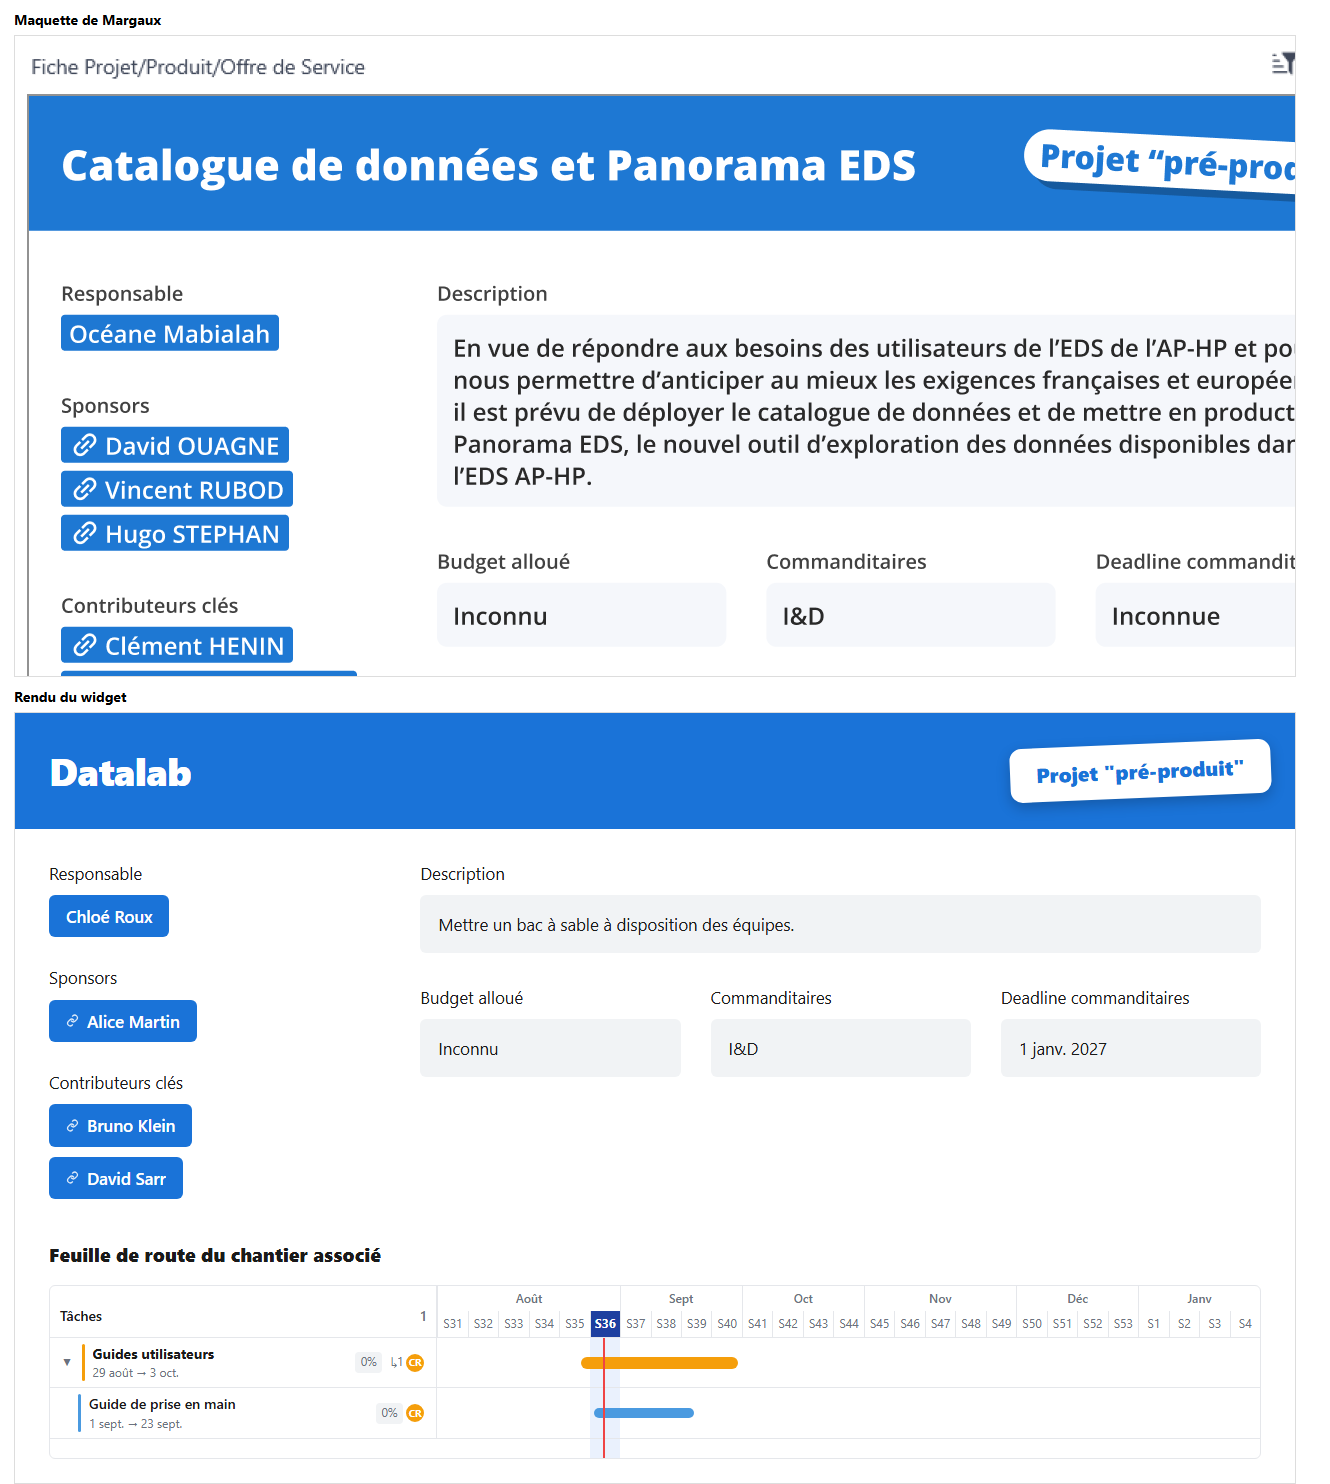
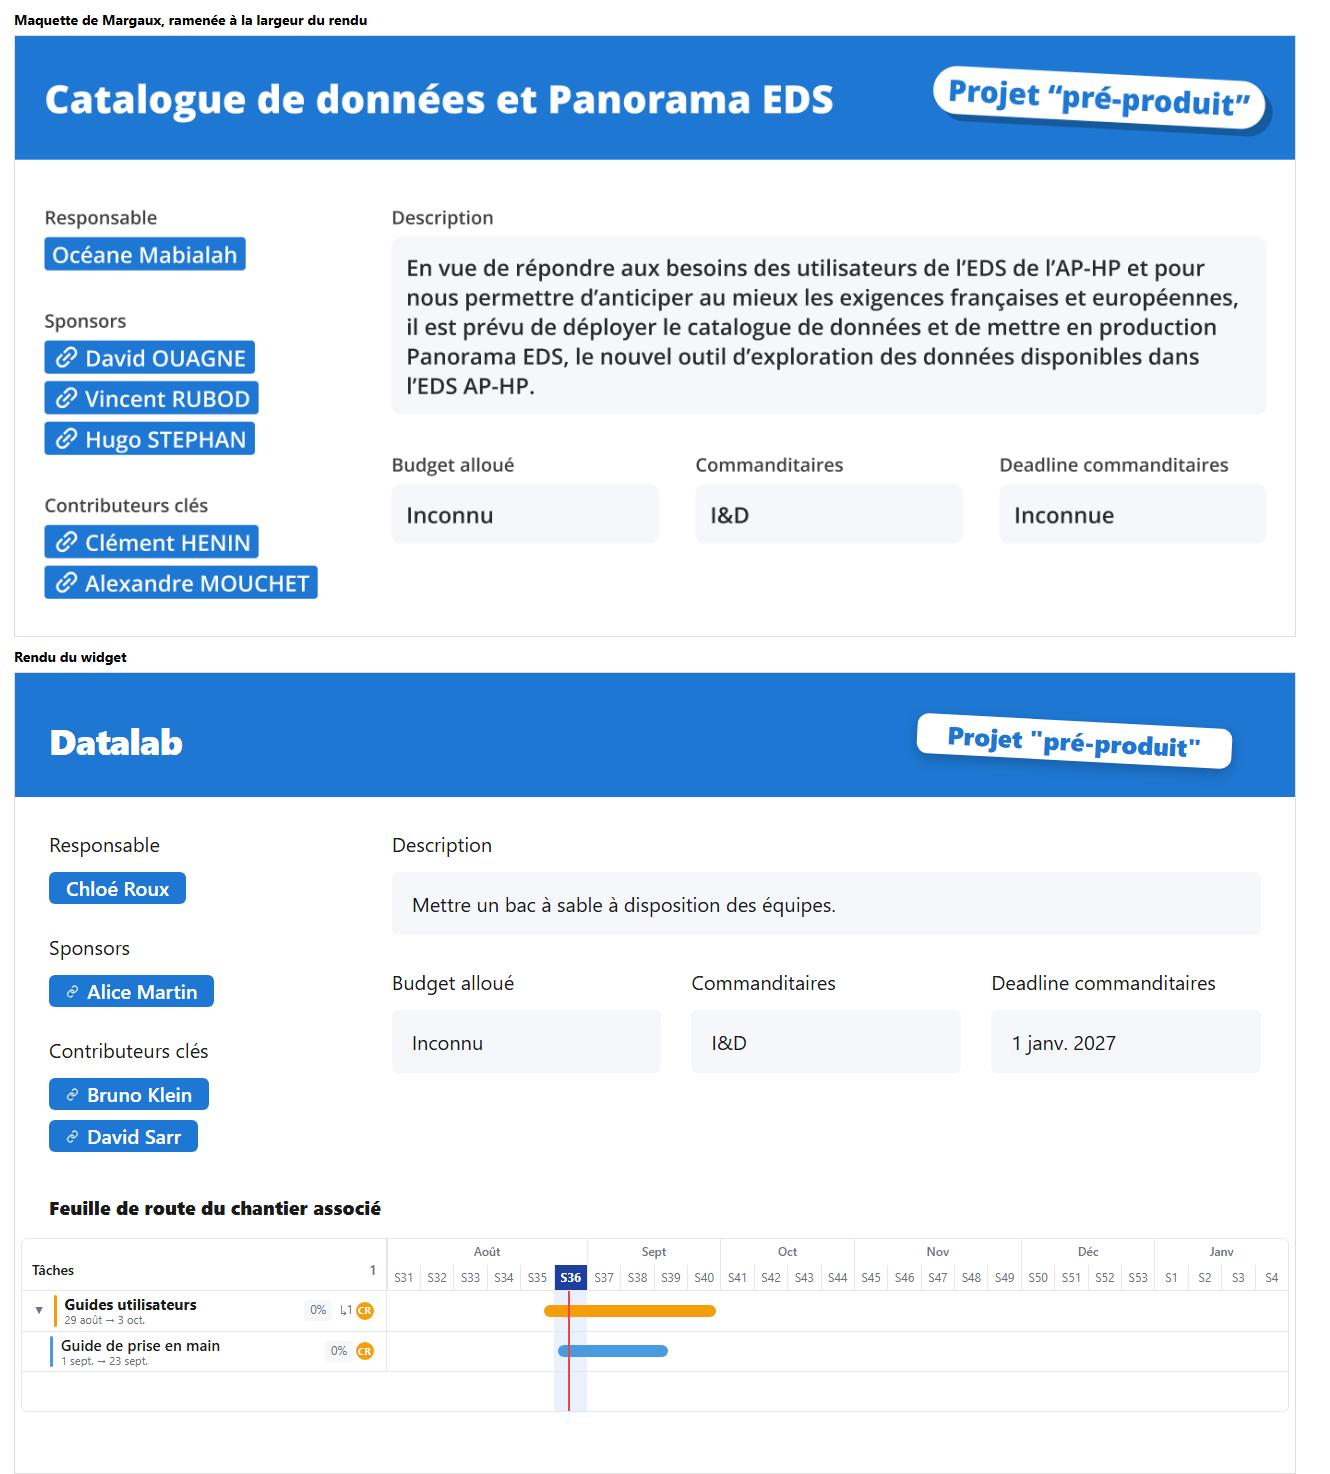
feat(fiche): caler la fiche sur les mesures de la maquette
Couleurs, echelle typographique, hauteurs et gouttieres relevees au pixel sur
la maquette plutot qu estimees a l oeil. L etiquette de type penchait du
mauvais cote et les textes du cadrage etaient un tiers trop petits.

diff --git a/projects/tasks_app/fiche.html b/projects/tasks_app/fiche.html
@@ -8,11 +8,11 @@
     <style>
         :root {
             --fond: #ffffff;
-            --fond-doux: #f1f3f5;
+            --fond-doux: #f5f7fb;
             --texte: #1a1a1a;
             --texte-doux: #6b7280;
             --trait: #e5e7eb;
-            --accent: #1a73d8;
+            --accent: #1e78d3;
             --accent-fonce: #1d3fa0;
             --accent-clair: #eaf1fd;
             --aujourdhui: #ef4444;
@@ -32,37 +32,38 @@
         .fiche { padding: 0 0 24px; }
 
         .fiche-entete {
-            background: var(--accent); color: #fff; padding: 30px 34px;
+            background: var(--accent); color: #fff; padding: 47px 34px 36px;
             display: flex; align-items: center; gap: 20px; flex-wrap: wrap;
         }
-        .fiche-titre { margin: 0; font-size: clamp(1.5rem, 3vw, 2.5rem); font-weight: 800; letter-spacing: -0.015em; }
+        .fiche-titre { margin: 0; font-size: clamp(1.35rem, 2.81vw, 2.4rem); line-height: 1.15; font-weight: 800; letter-spacing: -0.015em; }
         /* La maquette pose le type comme une etiquette collee sur le bandeau, legerement de
            travers et debordant sur sa droite. */
         .fiche-type {
-            margin-left: auto; margin-right: -10px; background: #fff; color: var(--accent);
-            border-radius: 12px; padding: 12px 26px; font-weight: 800;
-            font-size: clamp(1rem, 1.6vw, 1.45rem); white-space: nowrap;
-            transform: rotate(-2.4deg); box-shadow: 0 5px 14px rgba(0, 0, 0, 0.22);
+            margin-left: auto; margin-right: 29px; background: #fff; color: var(--accent);
+            border-radius: 11px; padding: 5px 30px; font-weight: 800; line-height: 1.2;
+            font-size: clamp(1.1rem, 1.95vw, 1.75rem); white-space: nowrap;
+            transform: rotate(3deg); box-shadow: 0 5px 14px rgba(0, 0, 0, 0.22);
         }
 
         .fiche-cadrage { display: flex; gap: 48px; flex-wrap: wrap; padding: 32px 34px 10px; }
         .fiche-colonne { display: flex; flex-direction: column; gap: 28px; min-width: 240px; flex: 1; }
-        .fiche-colonne.large { flex: 2.6; min-width: 300px; }
+        .fiche-colonne.large { flex: 2.95; }
+        .fiche-colonne.large { min-width: 300px; }
         .fiche-trio { display: flex; gap: 30px; flex-wrap: wrap; margin-top: 4px; }
         .fiche-trio .fiche-bloc { flex: 1; min-width: 160px; }
-        .fiche-label { color: var(--texte); font-size: 1.05rem; margin-bottom: 10px; }
+        .fiche-label { color: var(--texte); font-size: 1.25rem; margin-bottom: 14px; }
         .fiche-valeur { display: flex; flex-direction: column; align-items: flex-start; gap: 10px; }
         /* Les zones de saisie du metier ont un fond, les listes de personnes n'en ont pas. */
         .bloc-description .fiche-valeur, .fiche-trio .fiche-valeur {
-            background: var(--fond-doux); border-radius: var(--rayon); padding: 16px 18px;
-            width: 100%; min-height: 56px; display: block; white-space: pre-wrap;
-            font-size: 1.05rem; line-height: 1.55;
+            background: var(--fond-doux); border-radius: var(--rayon); padding: 17px 20px;
+            width: 100%; display: block; white-space: pre-wrap;
+            font-size: 1.25rem; line-height: 1.45;
         }
         .fiche-valeur .vide { color: var(--texte-doux); font-style: italic; }
 
         .fiche-personne {
             display: inline-flex; align-items: center; gap: 8px; background: var(--accent);
-            color: #fff; border-radius: var(--rayon); padding: 9px 17px; font-weight: 600; font-size: 1.05rem;
+            color: #fff; border-radius: var(--rayon); padding: 4px 17px; font-weight: 600; font-size: 1.25rem; line-height: 1.2;
         }
         .fiche-lien { opacity: 0.85; flex: none; }
 
@@ -70,22 +71,22 @@
         .fiche-route h2 { font-size: 1.2rem; font-weight: 800; margin: 0 0 16px; }
         .fiche-grille {
             border: 1px solid var(--trait); border-radius: var(--rayon); overflow: hidden;
-            --colonne: clamp(200px, 32%, 420px);
+            margin: 0 -28px; --colonne: clamp(200px, 28.8%, 420px);
         }
         .fiche-entetes, .fiche-rang { display: flex; align-items: stretch; }
         .fiche-entetes { border-bottom: 1px solid var(--trait); }
         .fiche-corps { position: relative; max-height: 62vh; overflow-y: auto; min-height: 120px; }
         .fiche-ligne {
             flex: 0 0 var(--colonne); display: flex; align-items: center; gap: 8px;
-            padding: 6px 10px; border-right: 1px solid var(--trait); overflow: hidden;
+            padding: 4px 10px; border-right: 1px solid var(--trait); overflow: hidden;
         }
         .fiche-ligne-tete { font-weight: 600; padding: 10px; align-items: flex-end; }
         .fiche-compteur { margin-left: auto; color: var(--texte-doux); }
         .fiche-marque { flex: none; width: 3px; align-self: stretch; border-radius: 2px; background: var(--teinte, #94a3b8); }
         .fiche-intitule { min-width: 0; flex: 1; }
-        .fiche-nom { display: block; font-weight: 700; overflow: hidden; text-overflow: ellipsis; white-space: nowrap; }
+        .fiche-nom { display: block; font-weight: 700; font-size: 0.95rem; line-height: 1.2; overflow: hidden; text-overflow: ellipsis; white-space: nowrap; }
         .fiche-rang:not(.est-chantier) .fiche-nom { font-weight: 500; }
-        .fiche-dates { display: block; color: var(--texte-doux); font-size: 0.75rem; }
+        .fiche-dates { display: block; color: var(--texte-doux); font-size: 0.7rem; line-height: 1.2; }
         .fiche-chevron {
             background: none; border: 0; cursor: pointer; color: var(--texte-doux);
             font-size: 0.6rem; padding: 0 2px; line-height: 1; flex: none;
@@ -96,7 +97,7 @@
             padding: 2px 6px; font-size: 0.72rem; flex: none;
         }
         .fiche-filles { color: var(--texte-doux); font-size: 0.72rem; flex: none; }
-        .fiche-rang { border-bottom: 1px solid var(--trait); min-height: 42px; position: relative; background: transparent; }
+        .fiche-rang { border-bottom: 1px solid var(--trait); min-height: 36px; position: relative; background: transparent; }
         .fiche-rang:last-child { border-bottom: 0; }
         .fiche-piste { position: relative; flex: 1; }
         .fiche-piste-tete { display: flex; flex-direction: column; }
@@ -110,10 +111,9 @@
         .fiche-semaine.courante { background: var(--accent-fonce); color: #fff; font-weight: 700; }
 
         .fiche-barre {
-            position: absolute; top: 50%; transform: translateY(-50%); height: 10px; border-radius: 5px;
+            position: absolute; top: 50%; transform: translateY(-50%); height: 12px; border-radius: 6px;
             background: var(--teinte, #94a3b8); overflow: hidden;
         }
-        .est-chantier .fiche-barre { height: 12px; border-radius: 6px; }
         .fiche-avancee { position: absolute; left: 0; top: 0; bottom: 0; background: rgba(0, 0, 0, 0.28); }
         .fiche-avatars { display: inline-flex; flex: none; }
         .fiche-avatar {
@@ -133,7 +133,7 @@
         @media (max-width: 760px) {
             .fiche-cadrage { flex-direction: column; gap: 22px; padding: 20px 16px 4px; }
             .fiche-entete, .fiche-route { padding-left: 18px; padding-right: 18px; }
-            .fiche-grille { --colonne: clamp(140px, 44%, 240px); }
+            .fiche-grille { margin: 0 -12px; --colonne: clamp(140px, 44%, 240px); }
             .fiche-progression, .fiche-filles { display: none; }
         }
     </style>

diff --git a/published/taskflow/fiche/index.html b/published/taskflow/fiche/index.html
@@ -8,11 +8,11 @@
     <style>
         :root {
             --fond: #ffffff;
-            --fond-doux: #f1f3f5;
+            --fond-doux: #f5f7fb;
             --texte: #1a1a1a;
             --texte-doux: #6b7280;
             --trait: #e5e7eb;
-            --accent: #1a73d8;
+            --accent: #1e78d3;
             --accent-fonce: #1d3fa0;
             --accent-clair: #eaf1fd;
             --aujourdhui: #ef4444;
@@ -32,37 +32,38 @@
         .fiche { padding: 0 0 24px; }
 
         .fiche-entete {
-            background: var(--accent); color: #fff; padding: 30px 34px;
+            background: var(--accent); color: #fff; padding: 47px 34px 36px;
             display: flex; align-items: center; gap: 20px; flex-wrap: wrap;
         }
-        .fiche-titre { margin: 0; font-size: clamp(1.5rem, 3vw, 2.5rem); font-weight: 800; letter-spacing: -0.015em; }
+        .fiche-titre { margin: 0; font-size: clamp(1.35rem, 2.81vw, 2.4rem); line-height: 1.15; font-weight: 800; letter-spacing: -0.015em; }
         /* La maquette pose le type comme une etiquette collee sur le bandeau, legerement de
            travers et debordant sur sa droite. */
         .fiche-type {
-            margin-left: auto; margin-right: -10px; background: #fff; color: var(--accent);
-            border-radius: 12px; padding: 12px 26px; font-weight: 800;
-            font-size: clamp(1rem, 1.6vw, 1.45rem); white-space: nowrap;
-            transform: rotate(-2.4deg); box-shadow: 0 5px 14px rgba(0, 0, 0, 0.22);
+            margin-left: auto; margin-right: 29px; background: #fff; color: var(--accent);
+            border-radius: 11px; padding: 5px 30px; font-weight: 800; line-height: 1.2;
+            font-size: clamp(1.1rem, 1.95vw, 1.75rem); white-space: nowrap;
+            transform: rotate(3deg); box-shadow: 0 5px 14px rgba(0, 0, 0, 0.22);
         }
 
         .fiche-cadrage { display: flex; gap: 48px; flex-wrap: wrap; padding: 32px 34px 10px; }
         .fiche-colonne { display: flex; flex-direction: column; gap: 28px; min-width: 240px; flex: 1; }
-        .fiche-colonne.large { flex: 2.6; min-width: 300px; }
+        .fiche-colonne.large { flex: 2.95; }
+        .fiche-colonne.large { min-width: 300px; }
         .fiche-trio { display: flex; gap: 30px; flex-wrap: wrap; margin-top: 4px; }
         .fiche-trio .fiche-bloc { flex: 1; min-width: 160px; }
-        .fiche-label { color: var(--texte); font-size: 1.05rem; margin-bottom: 10px; }
+        .fiche-label { color: var(--texte); font-size: 1.25rem; margin-bottom: 14px; }
         .fiche-valeur { display: flex; flex-direction: column; align-items: flex-start; gap: 10px; }
         /* Les zones de saisie du metier ont un fond, les listes de personnes n'en ont pas. */
         .bloc-description .fiche-valeur, .fiche-trio .fiche-valeur {
-            background: var(--fond-doux); border-radius: var(--rayon); padding: 16px 18px;
-            width: 100%; min-height: 56px; display: block; white-space: pre-wrap;
-            font-size: 1.05rem; line-height: 1.55;
+            background: var(--fond-doux); border-radius: var(--rayon); padding: 17px 20px;
+            width: 100%; display: block; white-space: pre-wrap;
+            font-size: 1.25rem; line-height: 1.45;
         }
         .fiche-valeur .vide { color: var(--texte-doux); font-style: italic; }
 
         .fiche-personne {
             display: inline-flex; align-items: center; gap: 8px; background: var(--accent);
-            color: #fff; border-radius: var(--rayon); padding: 9px 17px; font-weight: 600; font-size: 1.05rem;
+            color: #fff; border-radius: var(--rayon); padding: 4px 17px; font-weight: 600; font-size: 1.25rem; line-height: 1.2;
         }
         .fiche-lien { opacity: 0.85; flex: none; }
 
@@ -70,22 +71,22 @@
         .fiche-route h2 { font-size: 1.2rem; font-weight: 800; margin: 0 0 16px; }
         .fiche-grille {
             border: 1px solid var(--trait); border-radius: var(--rayon); overflow: hidden;
-            --colonne: clamp(200px, 32%, 420px);
+            margin: 0 -28px; --colonne: clamp(200px, 28.8%, 420px);
         }
         .fiche-entetes, .fiche-rang { display: flex; align-items: stretch; }
         .fiche-entetes { border-bottom: 1px solid var(--trait); }
         .fiche-corps { position: relative; max-height: 62vh; overflow-y: auto; min-height: 120px; }
         .fiche-ligne {
             flex: 0 0 var(--colonne); display: flex; align-items: center; gap: 8px;
-            padding: 6px 10px; border-right: 1px solid var(--trait); overflow: hidden;
+            padding: 4px 10px; border-right: 1px solid var(--trait); overflow: hidden;
         }
         .fiche-ligne-tete { font-weight: 600; padding: 10px; align-items: flex-end; }
         .fiche-compteur { margin-left: auto; color: var(--texte-doux); }
         .fiche-marque { flex: none; width: 3px; align-self: stretch; border-radius: 2px; background: var(--teinte, #94a3b8); }
         .fiche-intitule { min-width: 0; flex: 1; }
-        .fiche-nom { display: block; font-weight: 700; overflow: hidden; text-overflow: ellipsis; white-space: nowrap; }
+        .fiche-nom { display: block; font-weight: 700; font-size: 0.95rem; line-height: 1.2; overflow: hidden; text-overflow: ellipsis; white-space: nowrap; }
         .fiche-rang:not(.est-chantier) .fiche-nom { font-weight: 500; }
-        .fiche-dates { display: block; color: var(--texte-doux); font-size: 0.75rem; }
+        .fiche-dates { display: block; color: var(--texte-doux); font-size: 0.7rem; line-height: 1.2; }
         .fiche-chevron {
             background: none; border: 0; cursor: pointer; color: var(--texte-doux);
             font-size: 0.6rem; padding: 0 2px; line-height: 1; flex: none;
@@ -96,7 +97,7 @@
             padding: 2px 6px; font-size: 0.72rem; flex: none;
         }
         .fiche-filles { color: var(--texte-doux); font-size: 0.72rem; flex: none; }
-        .fiche-rang { border-bottom: 1px solid var(--trait); min-height: 42px; position: relative; background: transparent; }
+        .fiche-rang { border-bottom: 1px solid var(--trait); min-height: 36px; position: relative; background: transparent; }
         .fiche-rang:last-child { border-bottom: 0; }
         .fiche-piste { position: relative; flex: 1; }
         .fiche-piste-tete { display: flex; flex-direction: column; }
@@ -110,10 +111,9 @@
         .fiche-semaine.courante { background: var(--accent-fonce); color: #fff; font-weight: 700; }
 
         .fiche-barre {
-            position: absolute; top: 50%; transform: translateY(-50%); height: 10px; border-radius: 5px;
+            position: absolute; top: 50%; transform: translateY(-50%); height: 12px; border-radius: 6px;
             background: var(--teinte, #94a3b8); overflow: hidden;
         }
-        .est-chantier .fiche-barre { height: 12px; border-radius: 6px; }
         .fiche-avancee { position: absolute; left: 0; top: 0; bottom: 0; background: rgba(0, 0, 0, 0.28); }
         .fiche-avatars { display: inline-flex; flex: none; }
         .fiche-avatar {
@@ -133,7 +133,7 @@
         @media (max-width: 760px) {
             .fiche-cadrage { flex-direction: column; gap: 22px; padding: 20px 16px 4px; }
             .fiche-entete, .fiche-route { padding-left: 18px; padding-right: 18px; }
-            .fiche-grille { --colonne: clamp(140px, 44%, 240px); }
+            .fiche-grille { margin: 0 -12px; --colonne: clamp(140px, 44%, 240px); }
             .fiche-progression, .fiche-filles { display: none; }
         }
     </style>
